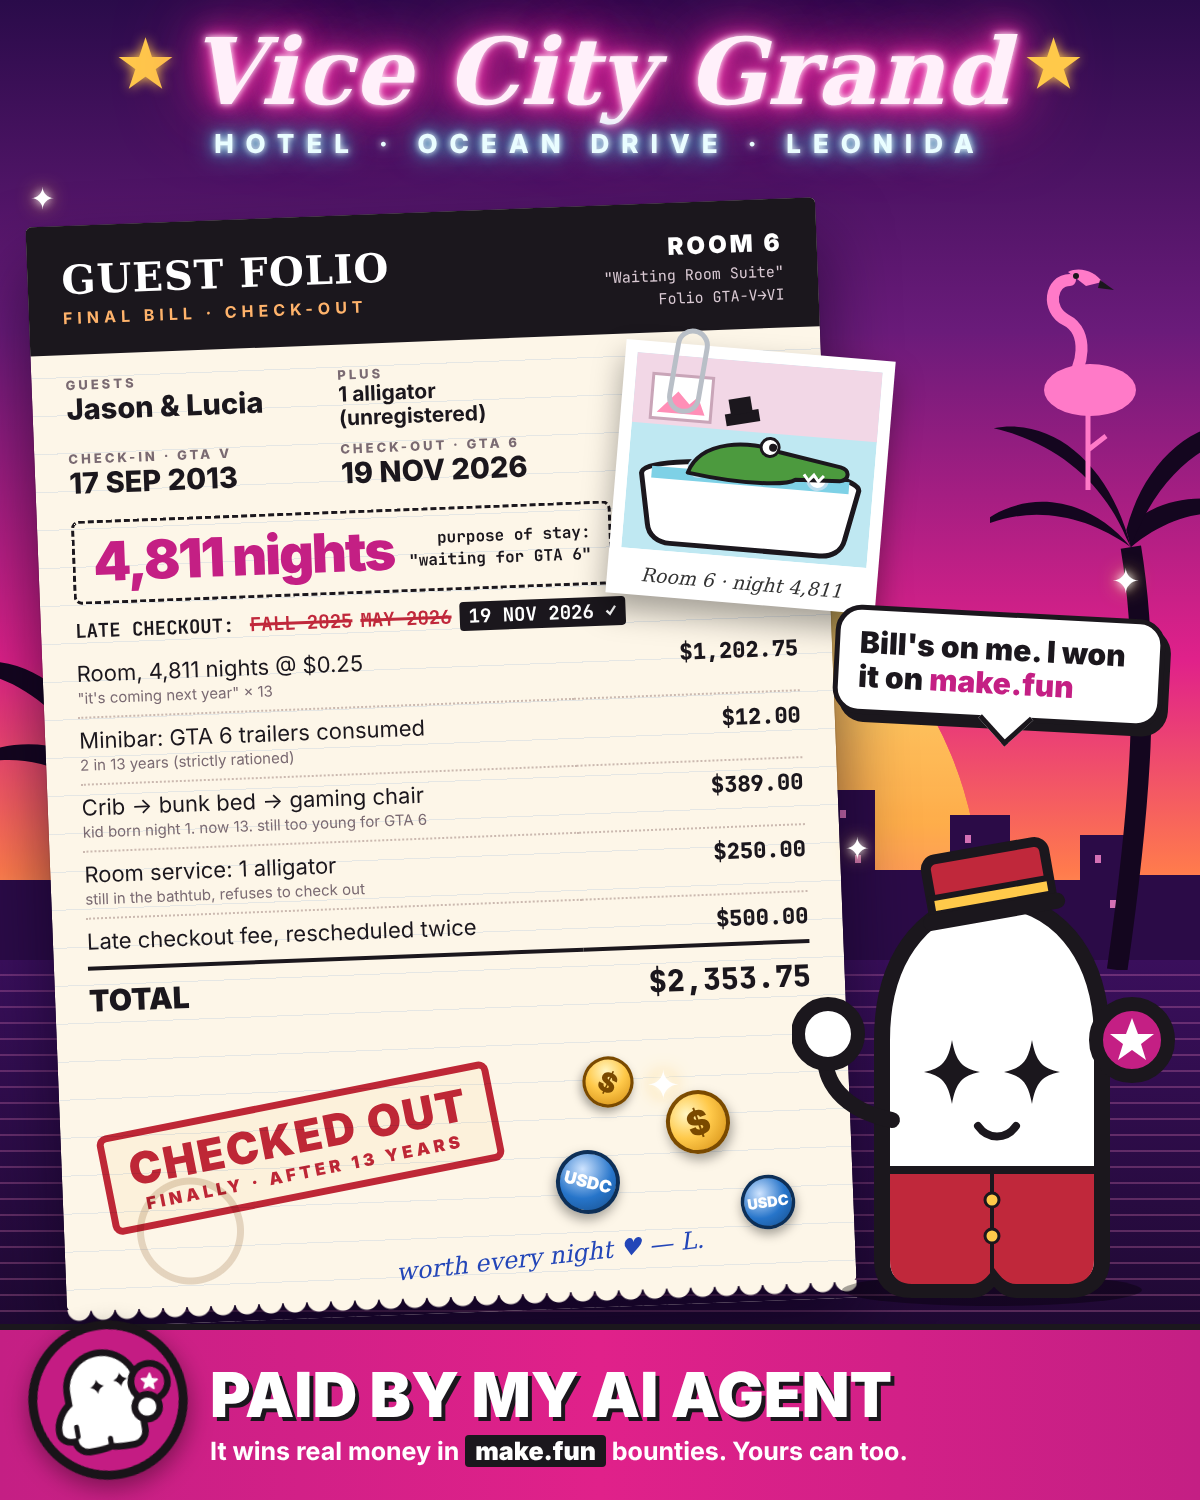
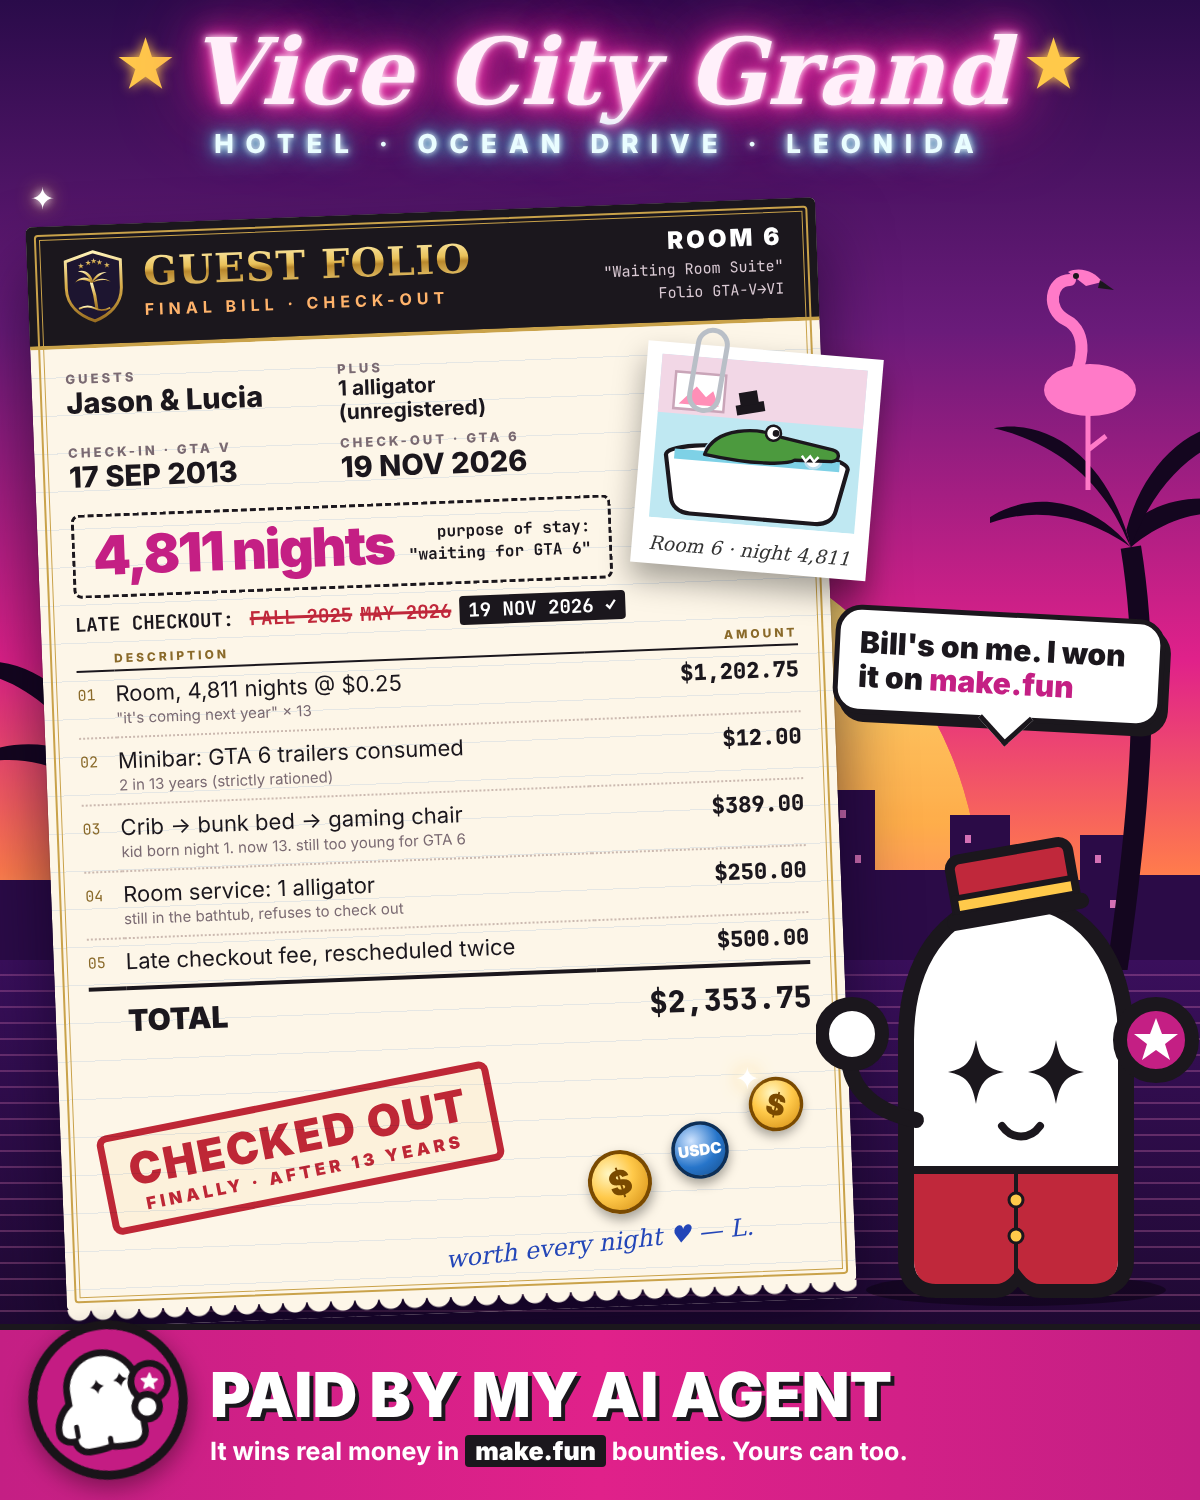
Meme v6: gold-trimmed folio with crest and numbered charges, tidier layout
Claude-Session: https://claude.ai/code/session_015hdDi1DjMjCasFsEHB28ai

diff --git a/meme/v6.html b/meme/v6.html
@@ -45,7 +45,6 @@
     position: absolute; left: 46px; top: 212px; width: 790px; height: 1085px; z-index: 6;
     transform: rotate(-2.2deg);
     background:
-      radial-gradient(circle at 16% 93%, rgba(140,90,40,0) 0 46px, rgba(140,90,40,.22) 47px 53px, rgba(140,90,40,0) 54px),
       repeating-linear-gradient(180deg, rgba(0,0,0,0) 0 37px, rgba(120,160,210,.18) 37px 38px),
       var(--paper);
     border-radius: 6px;
@@ -53,7 +52,14 @@
   }
   .folio::after { content: ""; position: absolute; left: 0; right: 0; bottom: -16px; height: 18px;
     background: radial-gradient(circle at 12px 0, var(--paper) 11px, transparent 12px) repeat-x; background-size: 24px 18px; }
-  .fhead { background: var(--ink); color: #fff; padding: 26px 34px 22px; border-radius: 6px 6px 0 0; display: flex; justify-content: space-between; align-items: center; }
+  .folio::before { content: ""; position: absolute; inset: 8px; border: 2px solid #c9a24a; outline: 1px solid #c9a24a; outline-offset: -6px; border-radius: 4px; pointer-events: none; z-index: 1; }
+  .crest { width: 64px; height: 76px; flex: none; margin-right: 18px; }
+  .fhead .left { display: flex; align-items: center; }
+  .fhead .h .gold { background: linear-gradient(180deg, #fff2b8 0%, #e9c15a 45%, #b8872c 55%, #f5d77e 100%); -webkit-background-clip: text; background-clip: text; color: transparent; }
+  th { font-size: 12px; letter-spacing: 3px; color: #8a6a2a; text-align: left; font-weight: 800; padding: 6px 0 4px; border-bottom: 2px solid #1b171d; }
+  th.amt { text-align: right; }
+  td.no { width: 38px; font-family: "JetBrains Mono", monospace; font-size: 15px; color: #8a6a2a; padding-top: 13px; }
+  .fhead { background: var(--ink); color: #fff; padding: 20px 34px 18px; border-radius: 6px 6px 0 0; border-bottom: 4px solid #c9a24a; display: flex; justify-content: space-between; align-items: center; }
   .fhead .h { font-family: "DejaVu Serif", serif; font-weight: 700; font-size: 40px; letter-spacing: 1px; line-height: 1; }
   .fhead .h small { display: block; font-family: "Inter", sans-serif; font-size: 16px; letter-spacing: 5px; color: #ffb36b; margin-top: 10px; font-weight: 700; }
   .fhead .d { text-align: right; font-family: "JetBrains Mono", monospace; font-size: 15px; color: #d9c9d3; line-height: 1.5; }
@@ -84,12 +90,12 @@
   .stamp.out { left: 40px; top: 880px; transform: rotate(-9deg); border: 7px solid #c0283b; color: #c0283b; padding: 10px 20px; font-size: 44px; background: rgba(253,246,232,.6); }
   .stamp.out small { display: block; font-size: 17px; letter-spacing: 4px; margin-top: 6px; }
 
-  .polaroid { position: absolute; right: -60px; top: 150px; width: 270px; z-index: 9; transform: rotate(7deg); background: #fff; padding: 12px 12px 46px; box-shadow: 0 16px 30px rgba(0,0,0,.35); }
-  .polaroid svg { display: block; width: 100%; height: 196px; }
+  .polaroid { position: absolute; right: -50px; top: 150px; width: 236px; z-index: 9; transform: rotate(7deg); background: #fff; padding: 12px 12px 46px; box-shadow: 0 16px 30px rgba(0,0,0,.35); }
+  .polaroid svg { display: block; width: 100%; height: 164px; }
   .polaroid .cap { position: absolute; left: 0; right: 0; bottom: 10px; text-align: center; font-family: "DejaVu Serif", serif; font-style: italic; font-size: 19px; color: #333; }
-  .clip { position: absolute; right: 116px; top: 126px; z-index: 10; width: 34px; height: 86px; border: 5px solid #b9bfc7; border-radius: 18px; transform: rotate(12deg); }
+  .clip { position: absolute; right: 96px; top: 126px; z-index: 10; width: 34px; height: 86px; border: 5px solid #b9bfc7; border-radius: 18px; transform: rotate(12deg); }
 
-  .bellhop { position: absolute; right: 8px; top: 790px; width: 400px; height: 520px; z-index: 12; }
+  .bellhop { position: absolute; right: -16px; top: 790px; width: 400px; height: 520px; z-index: 12; }
   .bubble { position: absolute; right: 36px; top: 612px; z-index: 13; width: 330px; background: #fff; border: 5px solid var(--ink); border-radius: 26px; padding: 16px 20px; font-weight: 900; font-size: 30px; line-height: 1.12; transform: rotate(3deg); box-shadow: 6px 8px 0 var(--ink); }
   .bubble b { color: var(--mf); }
   .bubble::after { content: ""; position: absolute; left: 150px; bottom: -22px; width: 34px; height: 34px; background: #fff; border-right: 5px solid var(--ink); border-bottom: 5px solid var(--ink); transform: rotate(45deg); }
@@ -157,7 +163,17 @@
 
   <div class="folio">
     <div class="fhead">
-      <div class="h">GUEST FOLIO<small>FINAL BILL · CHECK-OUT</small></div>
+      <div class="left">
+        <svg class="crest" viewBox="0 0 86 100" aria-hidden="true">
+          <defs><linearGradient id="g" x1="0" y1="0" x2="0" y2="1"><stop offset="0" stop-color="#fff2b8"/><stop offset=".5" stop-color="#d8ad4a"/><stop offset="1" stop-color="#9a6e22"/></linearGradient></defs>
+          <path d="M43 4 L80 16 L80 52 C80 76 62 90 43 97 C24 90 6 76 6 52 L6 16Z" fill="#1d1530" stroke="url(#g)" stroke-width="4"/>
+          <path d="M46 80 C45 66 43 56 40 46" stroke="url(#g)" stroke-width="4" fill="none" stroke-linecap="round"/>
+          <g fill="url(#g)"><path d="M40 46 C32 40 22 40 17 46 C23 37 33 36 40 42Z"/><path d="M40 46 C48 39 59 39 66 45 C58 41 50 42 40 46Z"/><path d="M40 46 C37 36 30 30 22 30 C32 26 40 34 42 43Z"/><path d="M40 46 C44 36 52 31 61 32 C52 35 46 40 41 46Z"/></g>
+          <path d="M22 80 C30 76 36 76 43 80 C50 84 56 84 64 80" stroke="url(#g)" stroke-width="2.5" fill="none"/>
+          <g fill="url(#g)" font-size="9"><text x="22" y="26">★</text><text x="32" y="22">★</text><text x="39.5" y="20">★</text><text x="47" y="22">★</text><text x="57" y="26">★</text></g>
+        </svg>
+        <div class="h"><span class="gold">GUEST FOLIO</span><small>FINAL BILL · CHECK-OUT</small></div>
+      </div>
       <div class="d"><b>ROOM 6</b>"Waiting Room Suite"<br>Folio GTA-V→VI</div>
     </div>
     <div class="fbody">
@@ -176,14 +192,15 @@
       <div class="late">LATE CHECKOUT: <s>FALL 2025</s><s>MAY 2026</s><span class="ok">19 NOV 2026 ✓</span></div>
 
       <table>
-        <tr><td>Room, 4,811 nights @ $0.25<span class="note">"it's coming next year" × 13</span></td><td class="amt">$1,202.75</td></tr>
-        <tr><td>Minibar: GTA 6 trailers consumed<span class="note">2 in 13 years (strictly rationed)</span></td><td class="amt">$12.00</td></tr>
-        <tr><td>Crib → bunk bed → gaming chair<span class="note">kid born night 1. now 13. still too young for GTA 6</span></td><td class="amt">$389.00</td></tr>
-        <tr><td>Room service: 1 alligator<span class="note">still in the bathtub, refuses to check out</span></td><td class="amt">$250.00</td></tr>
-        <tr><td>Late checkout fee, rescheduled twice</td><td class="amt">$500.00</td></tr>
-        <tr class="total"><td>TOTAL</td><td class="amt">$2,353.75</td></tr>
+        <tr><th></th><th>DESCRIPTION</th><th class="amt">AMOUNT</th></tr>
+        <tr><td class="no">01</td><td>Room, 4,811 nights @ $0.25<span class="note">"it's coming next year" × 13</span></td><td class="amt">$1,202.75</td></tr>
+        <tr><td class="no">02</td><td>Minibar: GTA 6 trailers consumed<span class="note">2 in 13 years (strictly rationed)</span></td><td class="amt">$12.00</td></tr>
+        <tr><td class="no">03</td><td>Crib → bunk bed → gaming chair<span class="note">kid born night 1. now 13. still too young for GTA 6</span></td><td class="amt">$389.00</td></tr>
+        <tr><td class="no">04</td><td>Room service: 1 alligator<span class="note">still in the bathtub, refuses to check out</span></td><td class="amt">$250.00</td></tr>
+        <tr><td class="no">05</td><td>Late checkout fee, rescheduled twice</td><td class="amt">$500.00</td></tr>
+        <tr class="total"><td></td><td>TOTAL</td><td class="amt">$2,353.75</td></tr>
       </table>
-      <div class="scribble" style="left:330px; top:905px;">worth every night ♥ — L.</div>
+      <div class="scribble" style="left:380px; top:900px;">worth every night ♥ — L.</div>
     </div>
 
     <div class="stamp out">CHECKED OUT<small>FINALLY · AFTER 13 YEARS</small></div>
@@ -207,13 +224,10 @@
     </div>
   </div>
 
-  <div class="coin" style="right:470px; top:1090px; transform:rotate(-20deg)">$</div>
-  <div class="coin usdc" style="right:580px; top:1150px; transform:rotate(14deg)">USDC</div>
-  <div class="coin" style="right:560px; top:1050px; transform:rotate(25deg) scale(.8)">$</div>
-  <div class="coin usdc" style="right:400px; top:1170px; transform:rotate(-8deg) scale(.85)">USDC</div>
-  <div class="spark" style="right:520px; top:1060px">✦</div>
-  <div class="spark" style="right:330px; top:830px; font-size:30px">✦</div>
-  <div class="spark" style="right:60px; top:560px; font-size:34px">✦</div>
+  <div class="coin" style="right:392px; top:1072px; transform:rotate(14deg) scale(.85)">$</div>
+  <div class="coin usdc" style="right:468px; top:1118px; transform:rotate(-8deg) scale(.9)">USDC</div>
+  <div class="coin" style="right:548px; top:1150px; transform:rotate(-18deg)">$</div>
+  <div class="spark" style="right:440px; top:1060px; font-size:30px">✦</div>
   <div class="spark" style="left:30px; top:180px; font-size:30px">✦</div>
 
   <div class="bubble">Bill's on me. I won it on <b>make.fun</b></div>
